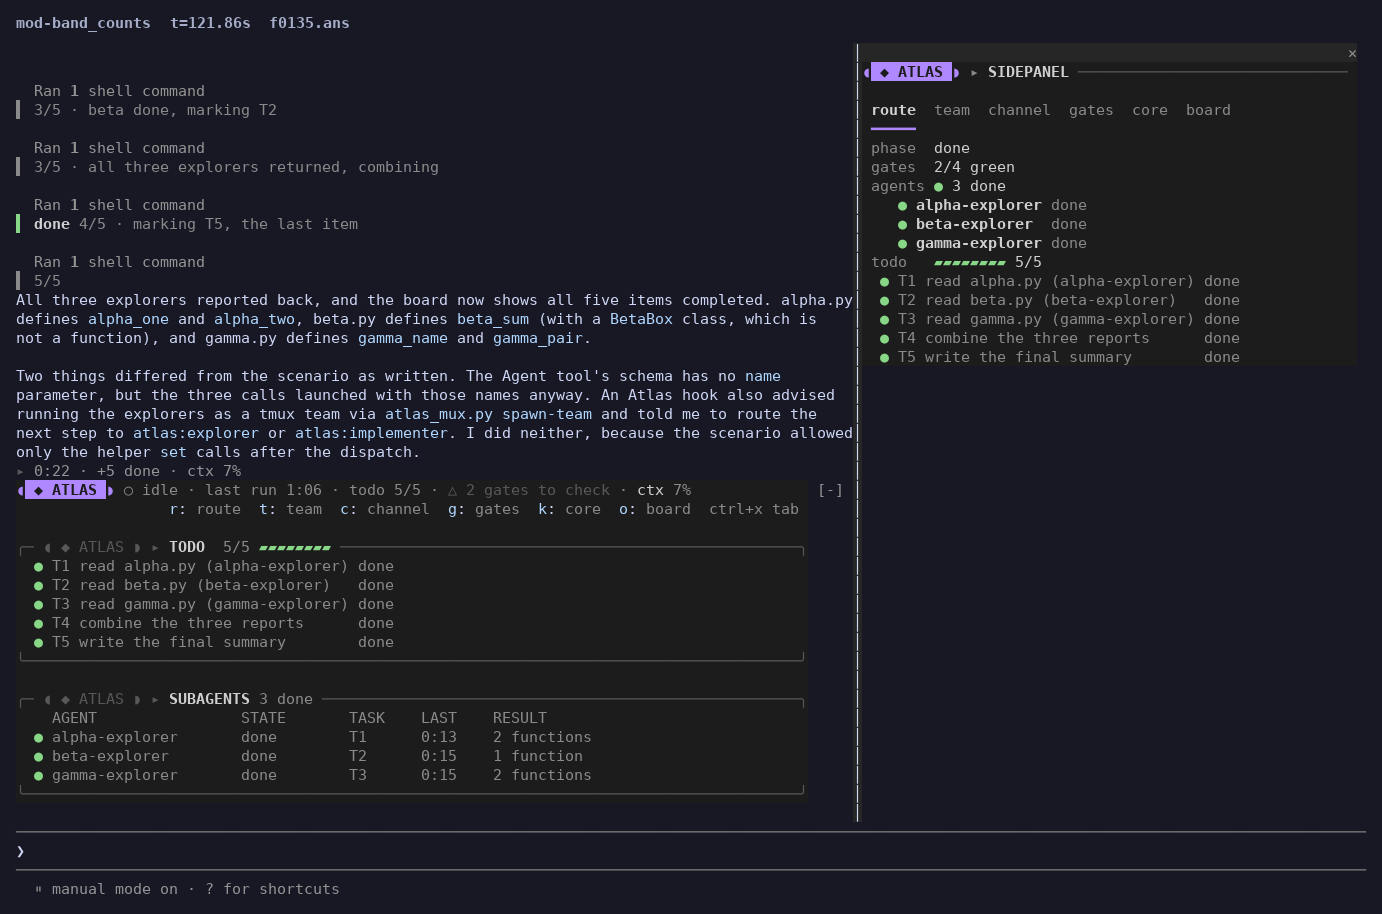
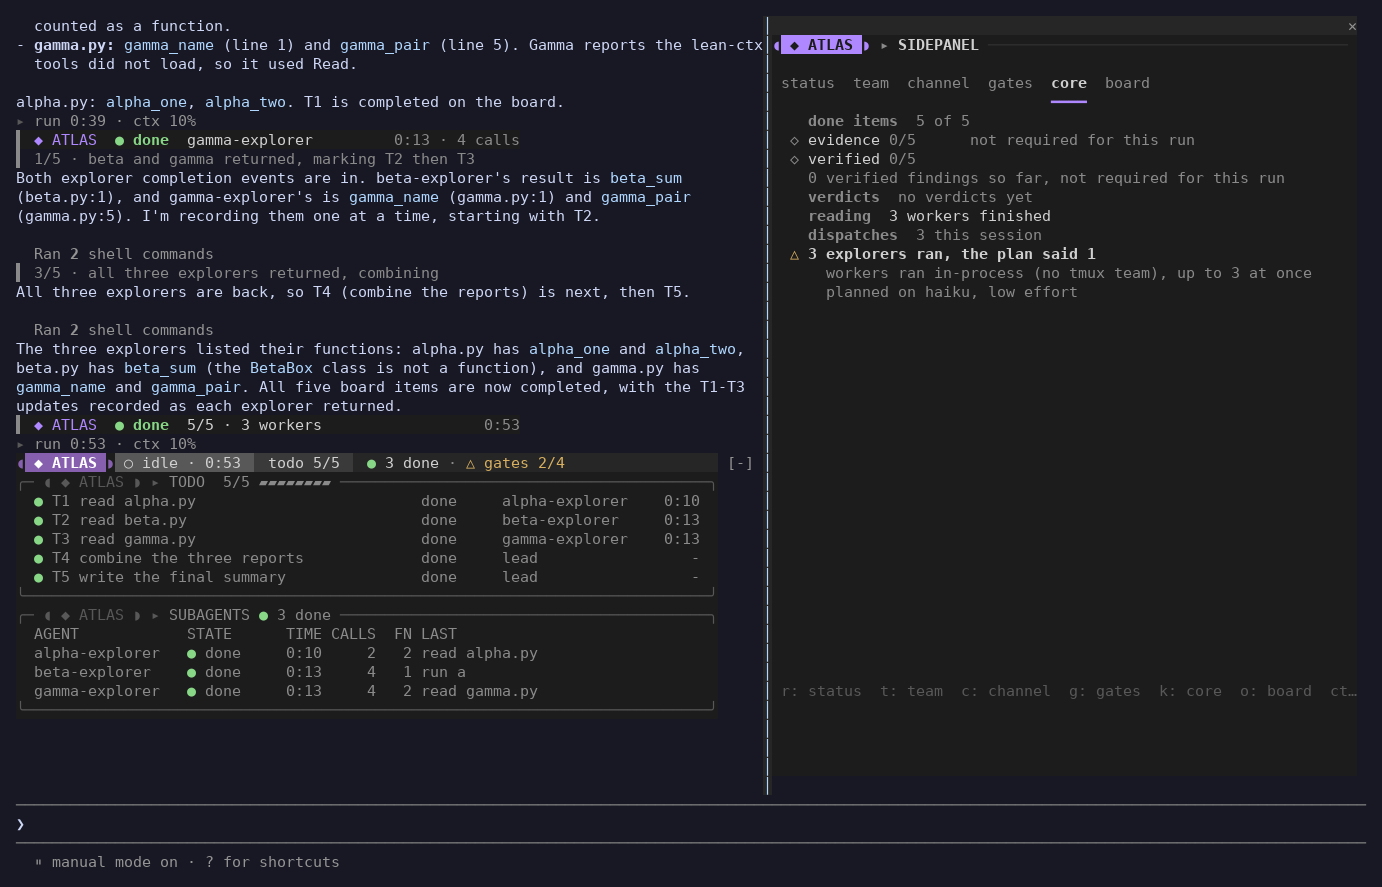
atlas 17.15.0: wave 41 notes, README and architecture doc match the code, showcase captures from ef38fc50

diff --git a/docs/architecture/atlas-mod.md b/docs/architecture/atlas-mod.md
@@ -1,6 +1,6 @@
 # Atlas mod (Claude Code)
 
-Terminal UI sections verified against main a7bc7b0d (atlas 17.14.0) on 2026-11-12; sections dated earlier describe 12.x and are marked where the 17.14.0 section supersedes them. Earlier note, 2026-10-13 (atlas 12.0.0, the Command Center redesign): `claude plugin test plugins/atlas` passes 249 mod tests, 0 mod fail. The full plugin walk reports 169 additional failures, all pre-existing `plugins/atlas/colony/**` or `plugins/atlas/omp/**` files importing `bun:test`, which the plugin test host forbids (those suites stay on `bun test`). `bunx tsc --noEmit -p plugins/atlas/mod/tsconfig.json` is 0 errors. Paths are relative to `plugins/atlas/` unless they start with `docs/`.
+Terminal UI sections verified against main ef38fc50 (atlas 17.15.0) on 2026-11-13; sections dated earlier describe 12.x and are marked where the 17.15.0 section supersedes them. Earlier note, 2026-10-13 (atlas 12.0.0, the Command Center redesign): `claude plugin test plugins/atlas` passes 249 mod tests, 0 mod fail. The full plugin walk reports 169 additional failures, all pre-existing `plugins/atlas/colony/**` or `plugins/atlas/omp/**` files importing `bun:test`, which the plugin test host forbids (those suites stay on `bun test`). `bunx tsc --noEmit -p plugins/atlas/mod/tsconfig.json` is 0 errors. Paths are relative to `plugins/atlas/` unless they start with `docs/`.
 
 The mod draws two native surfaces: a one-row band above the prompt and a tabbed sidebar pane (route/team/channel/gates). It also restyles five built-in Claude Code sites (the contract header, spinner, tool-use cards, turn receipt, prompt hint). Design rationale and decision log: `docs/plans/2026-10-13_atlas-command-center-redesign.md`. Earlier design history (the Client-pane Colony/Squad/Board/Channel/Collab tabs, persona sprites, the three-gutter-row band): `plugins/atlas/CHANGELOG.md` entries 11.0.0 through 11.1.7.
 
@@ -19,17 +19,17 @@ The Atlas mod is an in-process UI plugin module for Claude Code mods (Claude Cod
 
 Both surfaces are drawn with native elements (`$.ui.resolve(e)` from the `ui.render` hooks in `mod/register.ts:582-612`), not `Client` surface modules: a `Client` only receives keys after a mouse click, so native Buttons and Inputs are required to join the engine's own focus ring.
 
-### Terminal UI as shipped (atlas 17.14.0, main a7bc7b0d)
+### Terminal UI as shipped (atlas 17.15.0, main ef38fc50)
 
 This section wins over the 12.x sections below where they differ. Paths are under `plugins/atlas/`.
 
 - **Slot order.** The band and its worker rows come first, then one blank row, then the HUD (TODO box, one blank, SUBAGENTS box), so a host clip eats HUD rows, never the band (`atlasSlot`, `mod/register.ts:391`).
 - **Hold.** While a run lasts the slot keeps its height: `hudHoldRows` (`mod/hud.ts:352`) reserves a typical five-row plan and up to three agents once a phase header, a plan or an agent exists (`hudRunRows`, `mod/hud.ts:339`); `slotHold` (`mod/register.ts:398`, called at `:1376`) never falls during the run, never passes the budget, and is 0 at rest.
-- **Run start and end.** The clock starts at the person's prompt (`armedAt`, `mod/register.ts:1031`, `:1240`) and ends on the host's own turn end with no grace (`stepRun`, `mod/band-motion.ts:70-77`; `END_GRACE_MS` applies only where the host gives no turn signal). The first done frame already shows the final time (`finalSecsOf`, `mod/band-motion.ts:86`). The band reads `idle` after `IDLE_AFTER_SECS = 30` (`mod/mission-layout.ts:221`).
+- **Run start and end.** The clock starts at the person's prompt (`armedAt`, `mod/register.ts:1031`, `:1240`) and ends on the host's own turn end with no grace (`stepRun`, `mod/band-motion.ts:70-77`; `END_GRACE_MS` applies only where the host gives no turn signal). The first done frame already shows the final time (`finalSecsOf`, `mod/band-motion.ts:86`). The band reads `idle` after `IDLE_AFTER_SECS = 30` (`mod/mission-layout.ts:221`). A closed run has one total, set at close and never raised after (`closedTotal`, `readRun`, `mod/band-motion.ts`): the done clock is frozen, and the band, run card, side panel and board print that figure. A run that ends with a failed worker or a refused stop reads `blocked`, not `idle`, until a new run starts (`failedOpen`, `runStateOf`, `mod/mission-layout.ts`).
 - **Frame clock.** `FRAME_MS = 100` (`mod/band-motion.ts:51`), the loop armed at `mod/register.ts:1097`: at most 10 redraws a second. One frame index per render is shared by every surface (`withSpinFrame`, `mod/atlas-ui.ts:647`).
 - **Spinner sets.** Braille `⠋⠙⠹⠸⠼⠴⠦⠧⠇⠏` (`LEAD_FRAMES`, `mod/atlas-ui.ts:609`) on the band lead and agents count, the SUBAGENTS title and the panel agent rows; circle quarters `◐◓◑◒` (`SPIN_FRAMES`, `:607`) on TODO, SUBAGENTS agent rows, board and band worker rows, because the capture scorer reads them (`SCORER_READS_CIRCLES`, `mod/hud-surface.ts:20`).
 - **Fit ladder.** `fitRows` (`mod/hud-surface.ts:437`): progress rail, blank row, both closing rules together, finished TODO rows (`n/m · k done`), agent rows (down to one), TODO rows, the TODO box, the SUBAGENTS column names last. Overflow is one wording in the title: `figure · +N more` (`:172`), `3 running · +2 more` (`:285`). Boxes are closed on both blocks or flat on both, never a top rule without a bottom (`titleRow(..., flat)`, `:57`).
-- **Truth.** The side panel draws the snapshot as is, with no hold. The phase is never `done` while a dispatch row is open or a worker runs (`currentPhase`, `mod/data/todos.ts:270`). A row whose owner returned is a neutral `◉` with the word in 245 (`mod/hud-surface.ts:25`). The lead header line is lower case with no `▌` after the host's `●` (`displayLine`, `mod/transcript/leadheader.ts:41`; the chip, `:64`).
+- **Truth.** The side panel draws the snapshot as is, with no hold. The phase is never `done` while a dispatch row is open or a worker runs (`currentPhase`, `mod/data/todos.ts:270`). The status tab's phase row is built from the band's own inputs and glyph function (`phaseRow`, `phaseGlyph`, `mod/panel-layout.ts`), so it matches the band on one frame; lane and event times come from the same worker clock and one run start (`originOf`, `runBandModel`, `mod/register.ts`). A row whose owner returned is a neutral `◉` with the word in 245 (`mod/hud-surface.ts:25`). The lead header line is lower case with no `▌` after the host's `●` (`displayLine`, `mod/transcript/leadheader.ts:41`; the chip, `:64`).
 - **Durations.** An agent's run is `m:ss` (`h:mm:ss` from an hour) on every surface (`elapsedClock`, `mod/atlas-ui.ts:413`). A plan row's `ran` and `elapsed ... of` detail is `mm:ss` (`mod/hud.ts:99`, `mod/board-model.ts:66`).
 - **Palette.** `PALETTE5` (`mod/atlas-ui.ts:405`): accent 141, ok 114, warn 179, error 203, neutrals 236, 240, 245, 252. In 256-colour output every surface is limited to those, the panel fills 234 and 235, and 231 as a fade's first step (`PALETTE_INDICES`, `mod/surface_indices.ts:24`, checked by `mod/critique26.test.ts:39`).
 - **Done motion.** A done mark holds its first state `DONE_HOLD_MS = 1000` (`mod/motion.ts:29`), then three `MOTION_STEP_MS = 200` beats (`:23`); the timer runs at `MOTION_FRAME_MS = 100` (`:16`).

diff --git a/plugins/atlas/README.md b/plugins/atlas/README.md
@@ -575,14 +575,19 @@ Rules the band follows:
 - **Working** is shown whenever the host reports its turn is on, a worker runs or a
   plan row is running, until the host reports the turn over. The run clock starts at your prompt, never steps
   back, and ends when the host reports the turn idle (`stepRun`,
-  `mod/band-motion.ts`). A host turn with no live run, such as a slash command
+  `mod/band-motion.ts`). A closed run has one total, set when it closed and
+  never raised after (`closedTotal`): the band, the run card, the side panel's
+  phase row, the board footer and axis all print that same figure. A host turn with no live run, such as a slash command
   typed after a run finished, reads `⠋ working` with no clock and opens no run
   (`hostOnly` in `mod/band.tsx`).
-- **Done** shows the frozen run time (`● done 1:08`) for 30 seconds
+- **Done** shows the run total, frozen (`● done 1:08` stays 1:08 and does not count on), for 30 seconds
   (`IDLE_AFTER_SECS`), then the segment turns idle (`○ idle · 1:08`).
 - **Blocked** reads `▲ blocked · stop refused 0:37` when the Stop hook refused (or
   a dispatch row Stop will refuse on is still open), and `▲ blocked · 1 failed
-  0:37` when workers failed. Those are the only two reasons. The band and the side
+  0:37` when workers failed. Those are the only two reasons. A run that ends with a
+  failed worker (its dispatch row not closed) or a refused stop reads blocked from
+  the end of the run until a new run starts, never `idle` (`failedOpen` in
+  `runStateOf`, `mod/mission-layout.ts`). The band and the side
   panel read the Stop verdict on the same beat, so both switch on the same update.
 - **Width.** Below the full form the meter goes first, then `todo`, then the
   counts shrink to bare figures, then the state word goes and the clock stays.
@@ -765,8 +770,9 @@ worker runs (`currentPhase` in `mod/data/todos.ts`). The views, from
 ```
 
 - **status** (key `r`, the tab id is still `route`): the phase row wears the band's
-  own glyph, word and clock (`phase  ● done 0:29`, `phase  ▲ blocked 0:29`) and
-  holds them for up to two seconds after the band changes, then the numbered phase
+  own glyph, word and clock (`phase  ● done 0:29`, `phase  ▲ blocked 0:29`), built
+  from the band's own inputs and the same glyph function (`phaseRow` with
+  `phaseGlyph`, `mod/panel-layout.ts`), so the two never differ on one frame; then the numbered phase
   rail, a row per agent with a 12-cell braille activity line and its time, the
   gates, an events list of workers starting and finishing (`+0:13  alpha-explorer
   done`), and the todo rows.

diff --git a/README.md b/README.md
@@ -86,8 +86,8 @@ Terms used below: a "colony" is the set of named worker subagents a lead session
 ## What it looks like
 
 Every image below is a real capture of the installed plugin, taken from a tmux
-session or the browser. The terminal captures of the band, boxes and cards were taken from the 17.14.0
-build; the 17.15.0 layout of those surfaces is the one described here and in
+session or the browser. The band, box and card captures are from the 17.15.0
+build (main ef38fc50); the rendered text of each surface is in
 [plugins/atlas/README.md](plugins/atlas/README.md#in-terminal-mod).
 
 **Mission Control band.** The band is the row above the prompt: the `◖ ◆ ATLAS ◗`
@@ -97,7 +97,10 @@ pill, then three filled segments. The first is the run state with its clock
 (`⠋ 2 running · ● 1 done · ■1`, or `no agents`). A failing gate adds a
 `△ gates 2/3` chip. The band reads `working` whenever the host's turn is on, with a
 turning braille spinner that steps every 100 ms. The run clock starts at your
-prompt, never steps back, and stops when Claude Code reports its turn idle.
+prompt, never steps back, and stops when Claude Code reports its turn idle; a
+closed run has one total, so the band, run card, side panel and board print the
+same figure and `done` does not count on. A run that ends with a failed worker or
+a refused stop reads `blocked`, not `idle`, until a new run starts.
 `ATLAS_BAND_RICH=1` draws a tall form with the phase rail.
 
 The HUD under the band draws the TODO and SUBAGENTS boxes. TODO rows share fixed
@@ -109,7 +112,8 @@ frame, so the band keeps its screen row.
 
 The side panel has six tabs: `status`, `team`, `channel`, `gates`, `core` and
 `board` (keys `r t c g k o`). The board tab lists the plan items and draws a Gantt
-timeline, one lane per agent with the lead first. The panel never says `done`
+timeline, one lane per agent with the lead first. The status tab's phase row
+shows the band's own glyph, word and clock. The panel never says `done`
 while a dispatch is open or a worker runs. The transcript gets one-row cards: a
 finish card per worker (`▌ ◆ ATLAS  ● done  beta-explorer  0:13 · 3 calls`), one
 run card per clean run, and one blocked card per blocked spell. 256-colour

diff --git a/docs/ROADMAP.md b/docs/ROADMAP.md
@@ -187,7 +187,11 @@ Branch `worker/w3-polish` is in flight for the first four; none is verified yet.
 
 The shipped change is in `plugins/atlas/CHANGELOG.md` (17.15.0).
 
-- [planned] Retake the `img/showcase/cc-band-*.png` and `cc-card-done.png` captures from the 17.15.0 build after reinstall; the root README says they come from 17.14.0.
+- [planned] Band at 110 columns drops the blocked reason (`· stop refused`, `· 1 failed`), so a blocked band reads only `▲ blocked 0:48`.
+- [planned] SUBAGENTS folds to its title at 110 columns while agents run; the rows should stay while a worker runs.
+- [planned] SUBAGENTS `LAST` content quality: some rows still show a shell command stub (`run a`) instead of a useful verb and target.
+- [planned] SUBAGENTS `FN` detection is text-based (it reads the worker's report); a worker that states no function count shows `-`.
+- [planned] Host-drawn items the plugin cannot change: the `[-]` handle, the tip-row jump under the band, the side-panel reflow when the panel opens, and the 153-column divider.
 - [planned] `contracts/hud-golden.ts` holds the older `agentRows` form (`AGENT STATE TASK LAST RESULT`); the table `hudLines` draws (`agentTable`: `AGENT STATE TIME CALLS FN LAST`) has no golden file. Add one generated from `mod/hud-surface.ts`.
 
 ### Atlas 17.4.3 follow-ups (added 2026-11-10)

diff --git a/docs/CHANGELOG.md b/docs/CHANGELOG.md
@@ -2,7 +2,7 @@
 
 ## atlas 17.15.0 - 2026-11-13
 
-- atlas 17.15.0: waves 30 to 40 of the terminal UI (band, TODO HUD, SUBAGENTS table, board, side panel, cards). plugins/atlas/README.md and the root README were rewritten against the code on main 11e67a82. The line list is in [plugins/atlas/CHANGELOG.md](../plugins/atlas/CHANGELOG.md).
+- atlas 17.15.0: waves 30 to 41 of the terminal UI (band, TODO HUD, SUBAGENTS table, board, side panel, cards). plugins/atlas/README.md and the root README were rewritten against the code on main ef38fc50. The line list is in [plugins/atlas/CHANGELOG.md](../plugins/atlas/CHANGELOG.md).
 
 ## marketplace 5.20.0 - 2026-11-13
 

diff --git a/plugins/atlas/CHANGELOG.md b/plugins/atlas/CHANGELOG.md
@@ -2,7 +2,7 @@
 
 ## 17.15.0 - 2026-11-13
 
-Terminal UI waves 30 to 40 for Claude Code, as main 11e67a82 ships them, grouped by surface. Each line names the wave that made the change; none was dropped.
+Terminal UI waves 30 to 41 for Claude Code, as main ef38fc50 ships them, grouped by surface. Each line names the wave that made the change; none was dropped.
 
 ### Band
 
